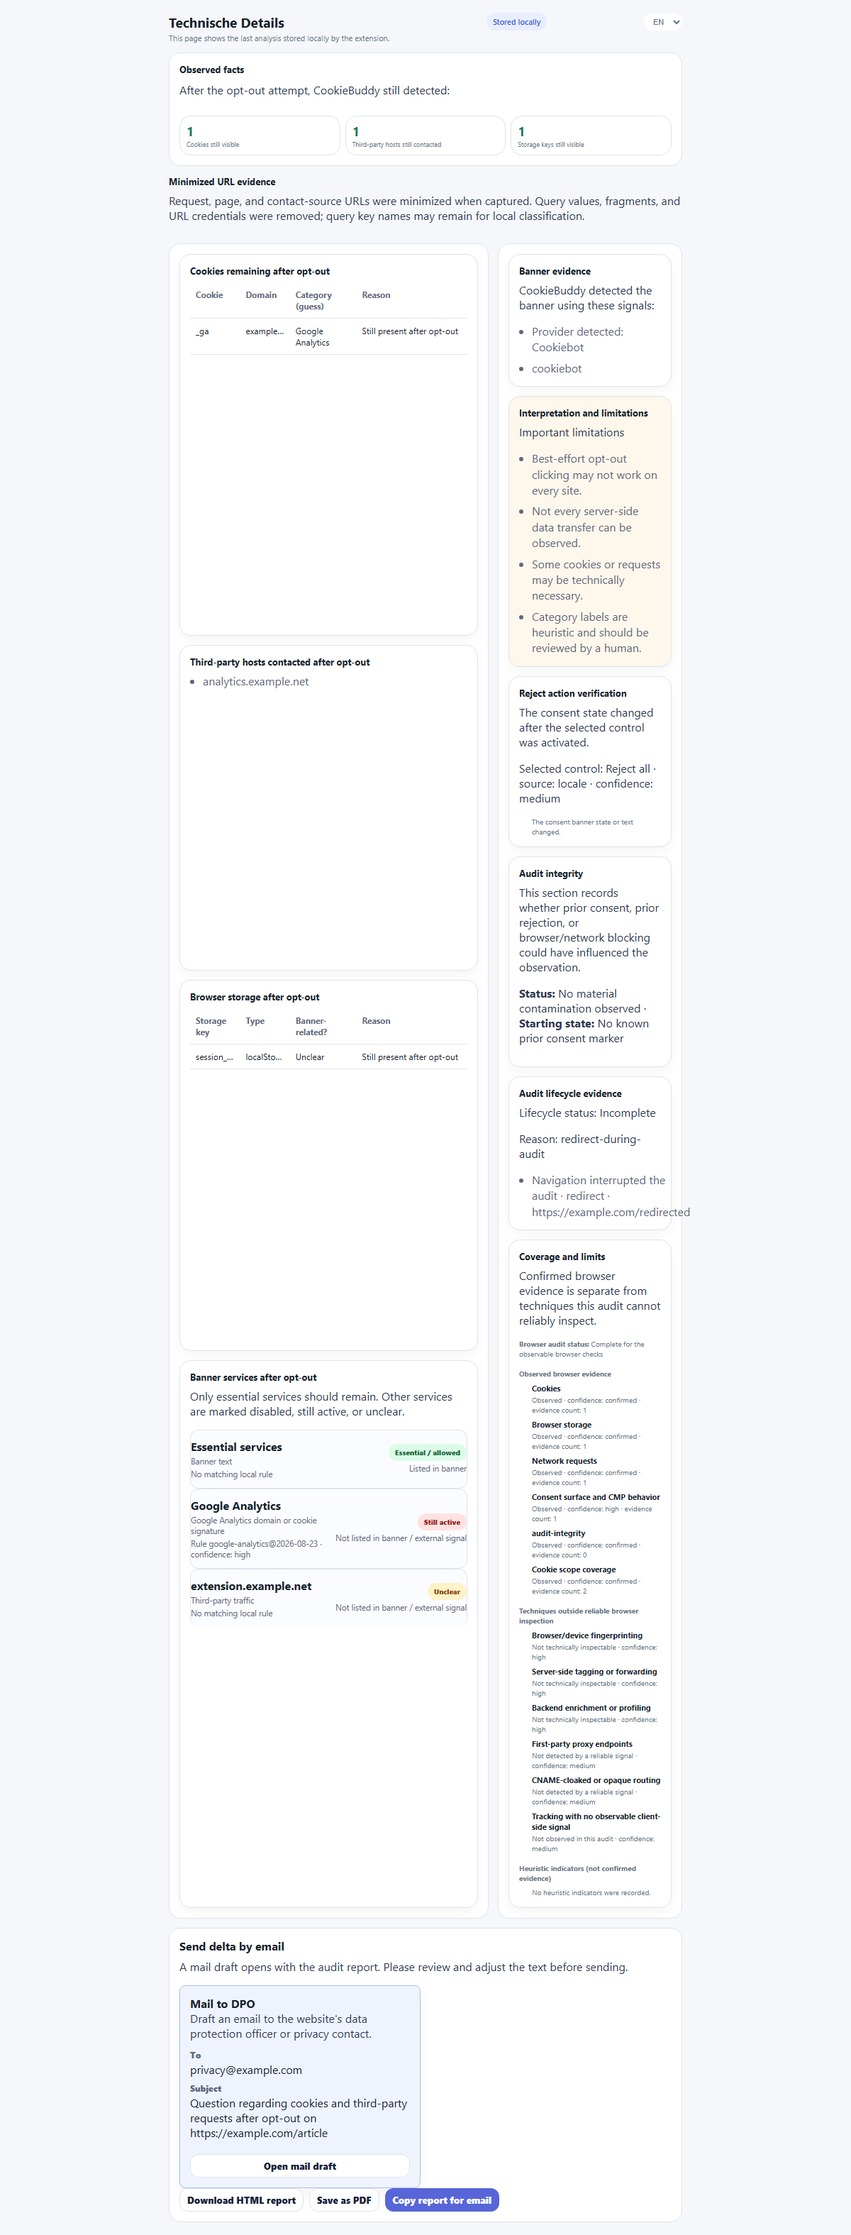
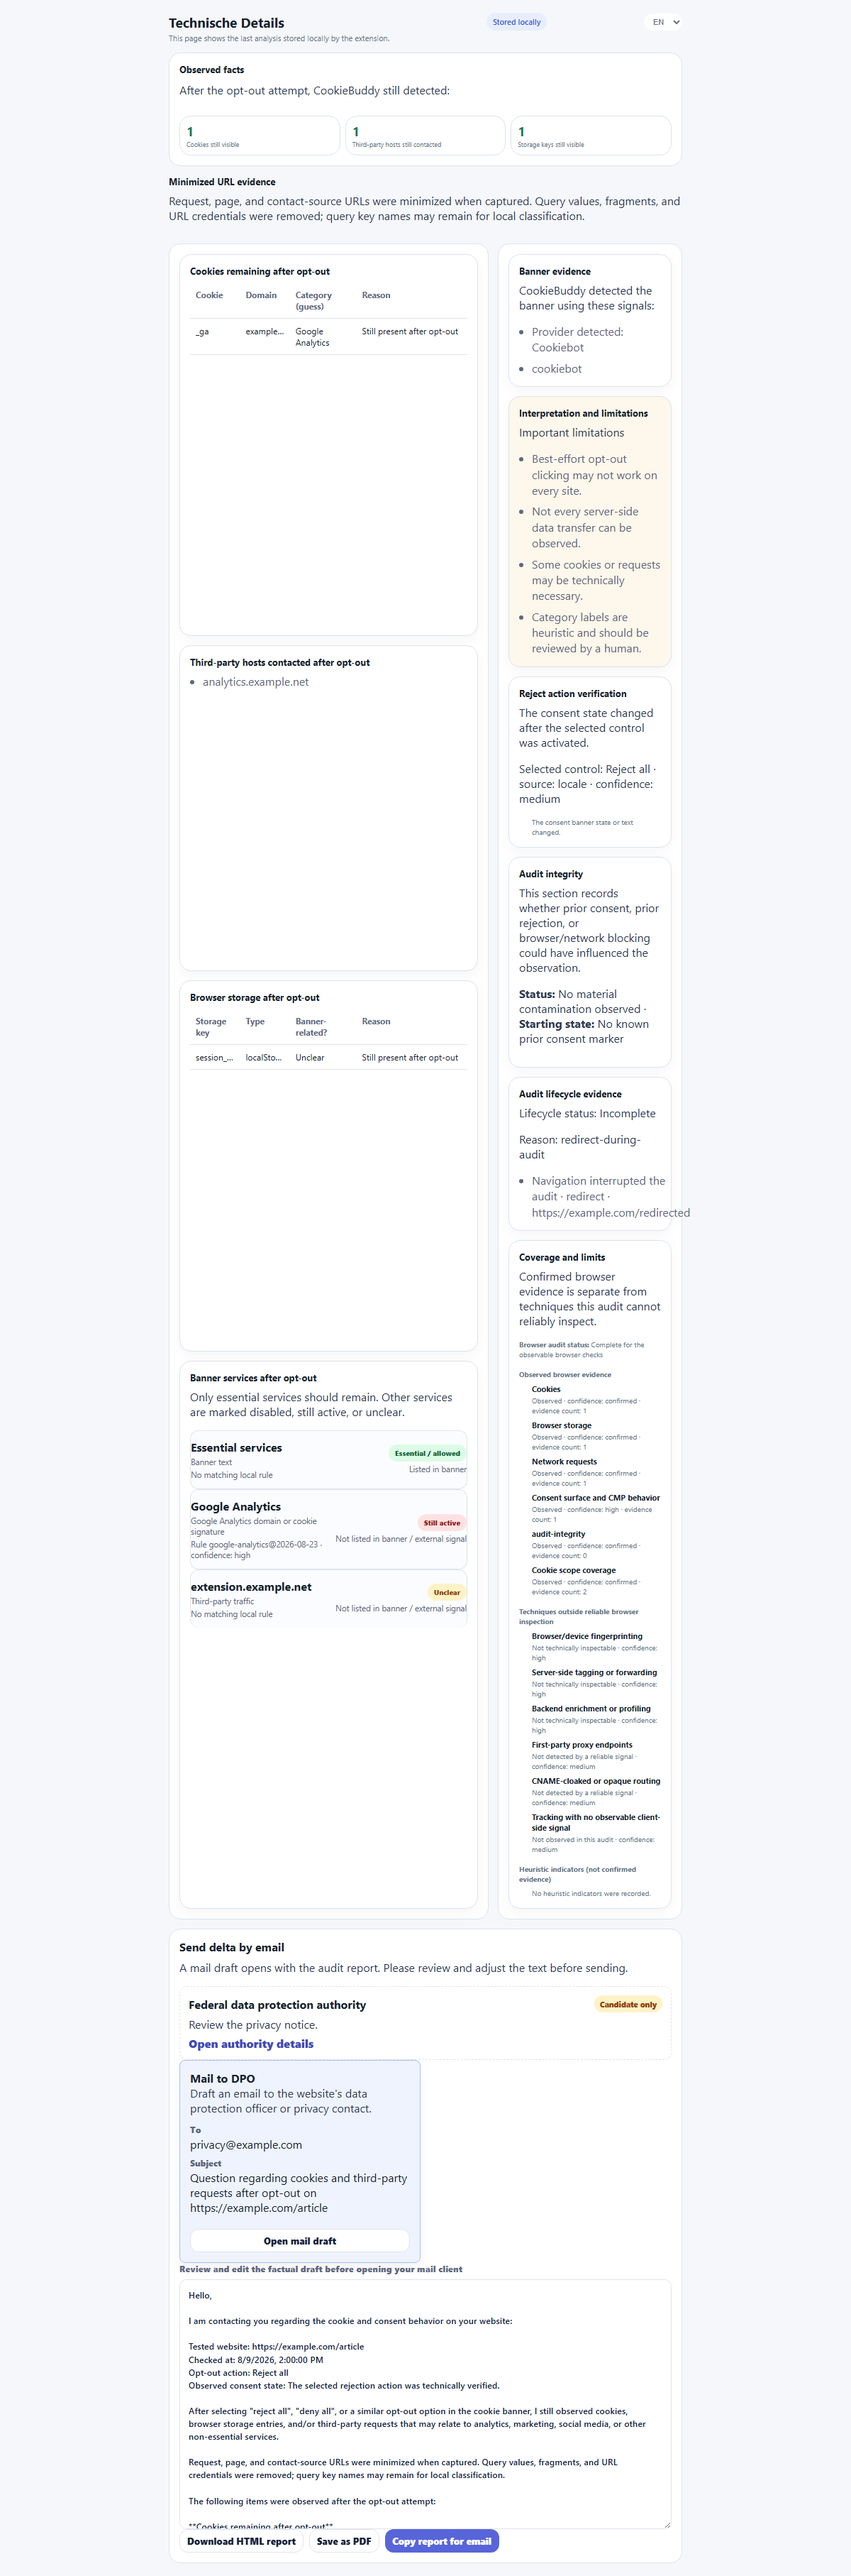
feat: add guided complaint draft workflow

diff --git a/src/details.js b/src/details.js
@@ -9,6 +9,7 @@ const downloadDeltaHtmlButton = document.querySelector("#downloadDeltaHtmlButton
 const downloadDeltaPdfButton = document.querySelector("#downloadDeltaPdfButton");
 let detailsPayload = null;
 const isDeltaView = new URLSearchParams(window.location.search).get("view") === "delta";
+const focusComplaint = new URLSearchParams(window.location.search).get("focus") === "complaint";
 let currentDeltaTarget = null;
 
 await initI18n();
@@ -47,6 +48,7 @@ function renderDetails() {
       button.addEventListener("click", () => void removeScreenshot(button.dataset.visualEvidenceRemove));
     });
     renderDeltaMailActions();
+    if (focusComplaint) sendDeltaMailActions?.scrollIntoView?.({ block: "start" });
     return;
   }
 
@@ -77,6 +79,7 @@ function renderDeltaMailActions() {
   const contacts = detailsPayload?.cookiebuddyLastScan?.analysis?.contacts || detailsPayload?.cookiebuddyLastScan?.contacts || {};
   const dpoEmail = contacts?.dpo?.email || "";
   const authorityEmail = contacts?.authority?.email || "";
+  const authority = contacts?.authority || {};
   const delta = detailsPayload?.cookiebuddyLastDelta;
   const website = delta?.url || t("unknownWebsite");
   const mailCards = [];
@@ -104,13 +107,18 @@ function renderDeltaMailActions() {
     }));
   }
 
+  const authorityCandidate = !authorityEmail && authority.url
+    ? `<div class="delta-authority-candidate"><div class="delta-authority-candidate-heading"><strong>${escapeHtml(authority.name || t("authorityLabel"))}</strong><span class="audit-badge unclear">${escapeHtml(t("authorityCandidateLabel"))}</span></div><p class="muted">${escapeHtml(authority.note || t("authorityCandidateHint"))}</p><a class="text-link" href="${escapeHtml(authority.url)}" target="_blank" rel="noreferrer">${escapeHtml(t("openAuthorityDetails"))}</a></div>`
+    : "";
+
   if (!sendDeltaMailActions) return;
 
   currentDeltaTarget = {
     dpoEmail,
     authorityEmail,
     dpoName: contacts?.dpo?.name || t("dpoLabel"),
-    authorityName: contacts?.authority?.name || t("authorityLabel")
+    authorityName: contacts?.authority?.name || t("authorityLabel"),
+    authorityUrl: authority.url || ""
   };
 
   sendDeltaMailActions.hidden = false;
@@ -119,10 +127,12 @@ function renderDeltaMailActions() {
       <h3 id="sendDeltaMailHeading" data-i18n="sendDeltaMailHeading">${escapeHtml(t("sendDeltaMailHeading"))}</h3>
       <p id="sendDeltaMailHint" class="muted" data-i18n="sendDeltaMailHint">${escapeHtml(t("sendDeltaMailHint"))}</p>
       ${mailCards.length ? "" : `<p class="muted">${escapeHtml(t("noDeltaMailRecipient"))}</p>`}
+      ${authorityCandidate}
     </div>
     <div class="delta-template-grid">
       ${mailCards.join("")}
     </div>
+    <label class="complaint-draft-field" for="complaintDraft"><span>${escapeHtml(t("complaintDraftLabel"))}</span><textarea id="complaintDraft" rows="18">${escapeHtml(buildDeltaMailBody(delta, dpoEmail ? "dpo" : "authority"))}</textarea></label>
     <div class="contact-actions">
       <button id="downloadDeltaHtmlButton" class="ghost-button small" type="button" data-i18n="downloadDeltaHtmlButton">${escapeHtml(t("downloadDeltaHtmlButton"))}</button>
       <button id="downloadDeltaPdfButton" class="ghost-button small" type="button" data-i18n="downloadDeltaPdfButton">${escapeHtml(t("downloadDeltaPdfButton"))}</button>
@@ -146,7 +156,7 @@ async function copyDeltaReport() {
   const button = sendDeltaMailActions?.querySelector("#copyDeltaReportButton");
   if (!delta || !button) return;
 
-  const report = buildDeltaMailBody(delta, "dpo");
+  const report = sendDeltaMailActions?.querySelector("#complaintDraft")?.value || buildDeltaMailBody(delta, "dpo");
   try {
     if (navigator.clipboard?.writeText) {
       await navigator.clipboard.writeText(report);
@@ -399,7 +409,7 @@ function openDeltaMailDraft(target = "dpo") {
 
   const website = delta.url || "";
   const subject = t(target === "authority" ? "deltaAuthorityReportSubject" : "deltaReportSubject", website || "unknown website");
-  const body = buildDeltaMailBody(delta, target);
+  const body = sendDeltaMailActions?.querySelector("#complaintDraft")?.value || buildDeltaMailBody(delta, target);
   const contacts = currentDeltaTarget || {};
   const recipient = target === "authority" ? contacts.authorityEmail : contacts.dpoEmail;
   const mailto = `mailto:${recipient ? encodeURIComponent(recipient) : ""}?subject=${encodeURIComponent(subject)}&body=${encodeURIComponent(body)}`;
@@ -410,6 +420,9 @@ function buildDeltaMailBody(delta, target = "dpo") {
   const banner = delta.banner || detailsPayload?.cookiebuddyLastScan?.analysis?.banner || null;
   const values = {
     pageUrl: delta.url || t("unknownWebsite"),
+    checkedAt: formatDate(delta.checkedAt),
+    optOutAction: delta.denyAction?.clicked ? (delta.denyAction.label || t("detectedButton")) : t("noDenyButtonClicked"),
+    verification: delta.denyAction?.verified ? t("deltaMailVerificationVerified") : t("deltaMailVerificationUnclear"),
     remainingCookies: formatMailList([...(delta.remainingCookies || []), ...(delta.newCookies || [])].map(formatCookieForMail), t("noneObserved")),
     thirdPartyHosts: formatMailList(delta.thirdPartyHosts || [], t("noneObserved")),
     storageEntries: formatMailList((delta.remainingStorageEntries || []).map(formatStorageForMail), t("noneObserved")),
@@ -426,7 +439,10 @@ function buildDeltaMailBody(delta, target = "dpo") {
     "",
     intro,
     "",
-    values.pageUrl,
+    `${t("deltaMailWebsiteLabel")}: ${values.pageUrl}`,
+    `${t("deltaMailCheckedAtLabel")}: ${values.checkedAt}`,
+    `${t("deltaMailOptOutLabel")}: ${values.optOutAction}`,
+    `${t("deltaMailVerificationLabel")}: ${values.verification}`,
     "",
     t("deltaMailObservation"),
     "",
@@ -467,6 +483,7 @@ function buildDeltaMailBody(delta, target = "dpo") {
     t("visualEvidenceMailNote", values.visualEvidence),
     "",
     t("deltaMailNoLegalClaim"),
+    t("deltaMailReportExportNote"),
     "",
     t("mailClosing"),
     values.senderName

diff --git a/src/popup.js b/src/popup.js
@@ -715,13 +715,10 @@ function renderAuditVerdict(delta, verdict) {
   const reasons = (verdict.reasons || []).slice(0, 3).map((reason) => `<li>${escapeHtml(reasonLabels[reason] || reason)}</li>`).join("");
   const complete = verdict.coverage?.complete === true;
   const cookieCount = (delta.remainingCookies?.length || 0) + (delta.newCookies?.length || 0);
-  const dpoEmail = state.analysis?.contacts?.dpo?.email || "";
-  const complaintBody = dpoEmail ? buildMailBody("access", delta) : "";
-  const complaintHref = dpoEmail ? `mailto:${encodeURIComponent(dpoEmail)}?subject=${encodeURIComponent(t("mailSubject", state.analysis.host))}&body=${encodeURIComponent(complaintBody)}` : "";
-  const detailsHref = chrome.runtime.getURL("details.html?view=delta");
-  const complaintAction = verdict.status === "negative" && complaintHref
-    ? `<a class="primary-button small" href="${complaintHref}" target="_blank" rel="noreferrer" data-complaint-action="true">${escapeHtml(t("auditContactWebsite"))}</a>`
-    : verdict.status === "negative" ? `<span class="audit-recipient-note">${escapeHtml(t("auditRecipientUnclear"))}</span>` : "";
+  const detailsHref = chrome.runtime.getURL(verdict.status === "negative" ? "details.html?view=delta&focus=complaint" : "details.html?view=delta");
+  const complaintAction = verdict.status === "negative"
+    ? `<a class="primary-button small" href="${escapeHtml(detailsHref)}" target="_blank" rel="noreferrer" data-complaint-action="true">${escapeHtml(t("auditContactWebsite"))}</a><a class="ghost-button small" href="${escapeHtml(detailsHref)}" target="_blank" rel="noreferrer" data-authority-complaint-action="true">${escapeHtml(t("auditPrepareAuthority"))}</a>`
+    : "";
   const cookieItems = [...(delta.remainingCookies || []), ...(delta.newCookies || [])].slice(0, 8);
 
   const html = `

diff --git a/src/styles.css b/src/styles.css
@@ -1476,6 +1476,46 @@ body {
   margin-bottom: 18px;
 }
 
+.complaint-draft-field {
+  display: grid;
+  gap: 7px;
+  color: var(--muted);
+  font-size: 0.78rem;
+  font-weight: 800;
+}
+
+.complaint-draft-field textarea {
+  width: 100%;
+  min-height: 260px;
+  box-sizing: border-box;
+  resize: vertical;
+  border: 1px solid var(--line);
+  border-radius: 10px;
+  padding: 12px;
+  background: var(--panel-strong);
+  color: var(--text);
+  font: inherit;
+  font-weight: 500;
+  line-height: 1.45;
+}
+
+.delta-authority-candidate {
+  display: grid;
+  gap: 6px;
+  border: 1px dashed var(--line);
+  border-radius: 10px;
+  padding: 12px;
+}
+
+.delta-authority-candidate-heading {
+  display: flex;
+  align-items: center;
+  justify-content: space-between;
+  gap: 12px;
+}
+
+.delta-authority-candidate p { margin: 0; }
+
 .delta-template-grid {
   display: grid;
   grid-template-columns: repeat(2, minmax(0, 1fr));

diff --git a/README.md b/README.md
@@ -62,7 +62,7 @@ The source of truth for product acceptance behavior is [`features/cookiebuddy.fe
 | UC-18 | Build an evidence-grade report with timeline, coverage, observed facts, interpretation, and machine-readable export. |
 | UC-19 | Minimize sensitive URL data at capture time; exclude query values and fragments by default. |
 | UC-20 | Optionally capture user-controlled visual evidence with preview/removal before export. Screenshots are off by default, limited to the tested active tab, linked to audit steps, and recorded as unavailable when browser permissions prevent capture. |
-| UC-21 | Prepare a factual complaint/escalation draft using only evidence actually present in the audit. |
+| UC-21 | Prepare an editable factual complaint/escalation draft from a negative audit, with evidence export and uncertain recipients/authorities shown as candidates. |
 | UC-22 | Present the one-click verdict and audit completeness before technical metrics, with one to three plain-language reasons and progressive evidence. |
 | UC-23 | Support multilingual/accessibility-aware consent controls safely without broad-text false clicks. Consent vocabulary is local, explicit, and extended through locale data; accessible names and roles are used for icon-only controls, while unsupported language stays unresolved. |
 | UC-24 | Explain limits for fingerprinting, server-side tagging, backend enrichment, first-party proxies, and other opaque techniques. |
